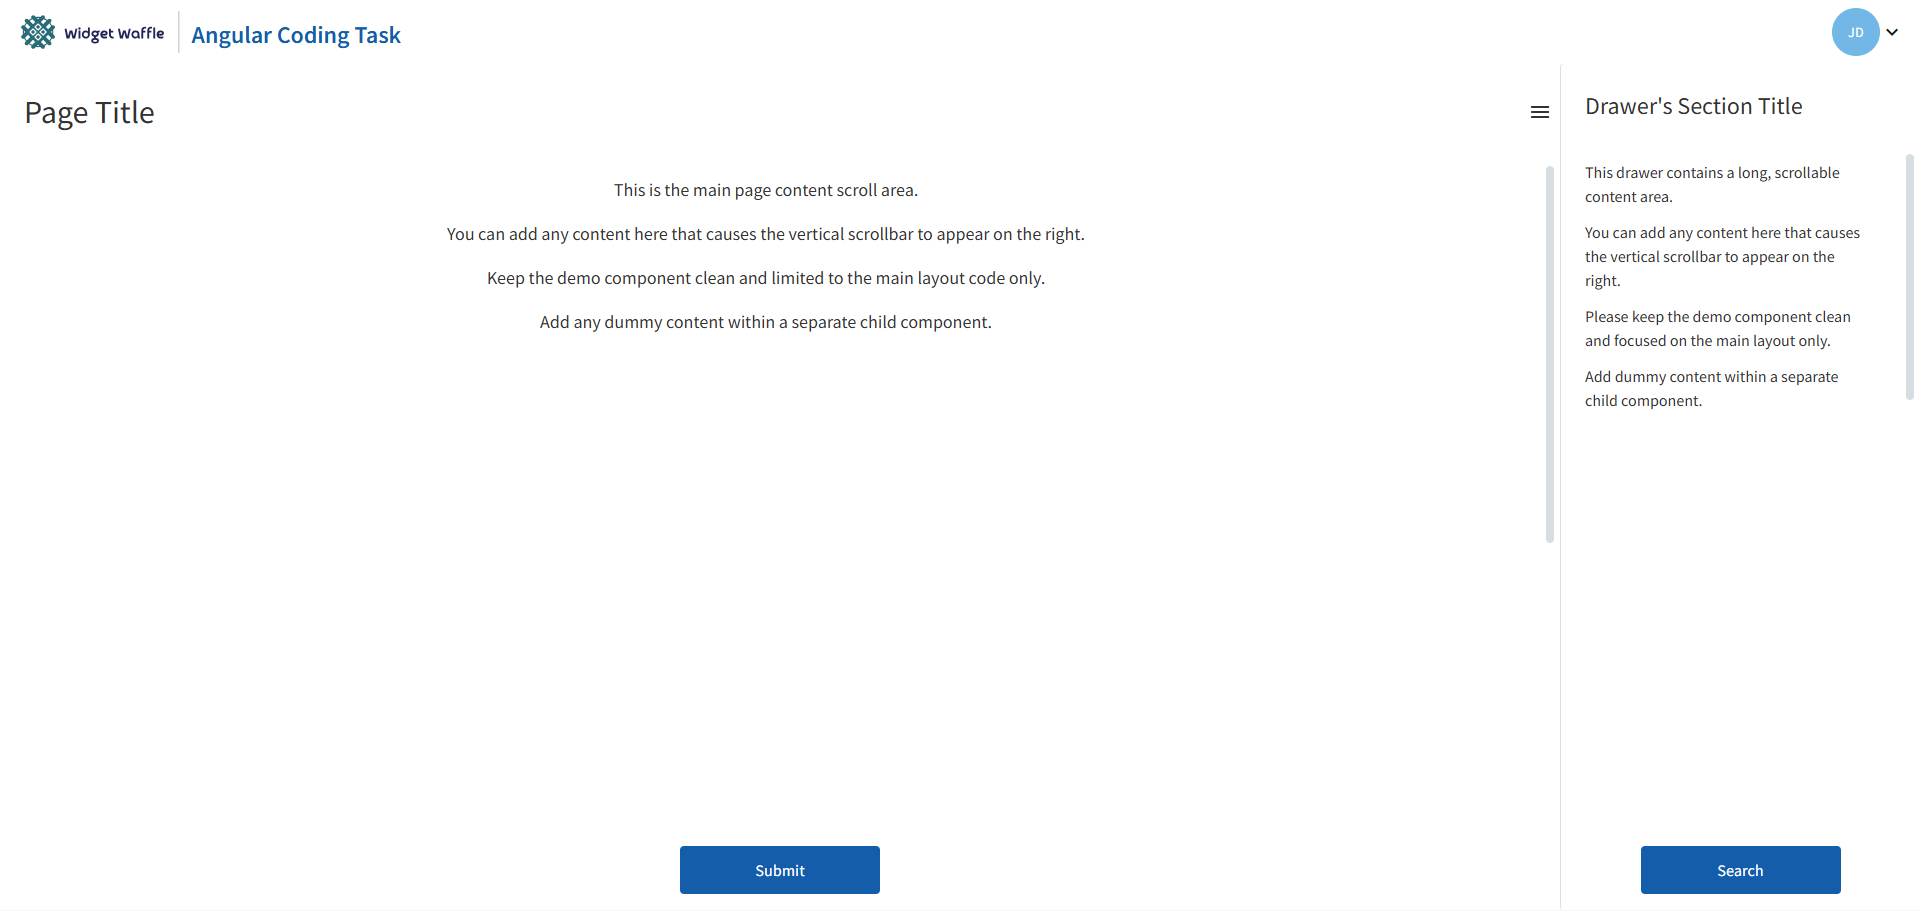
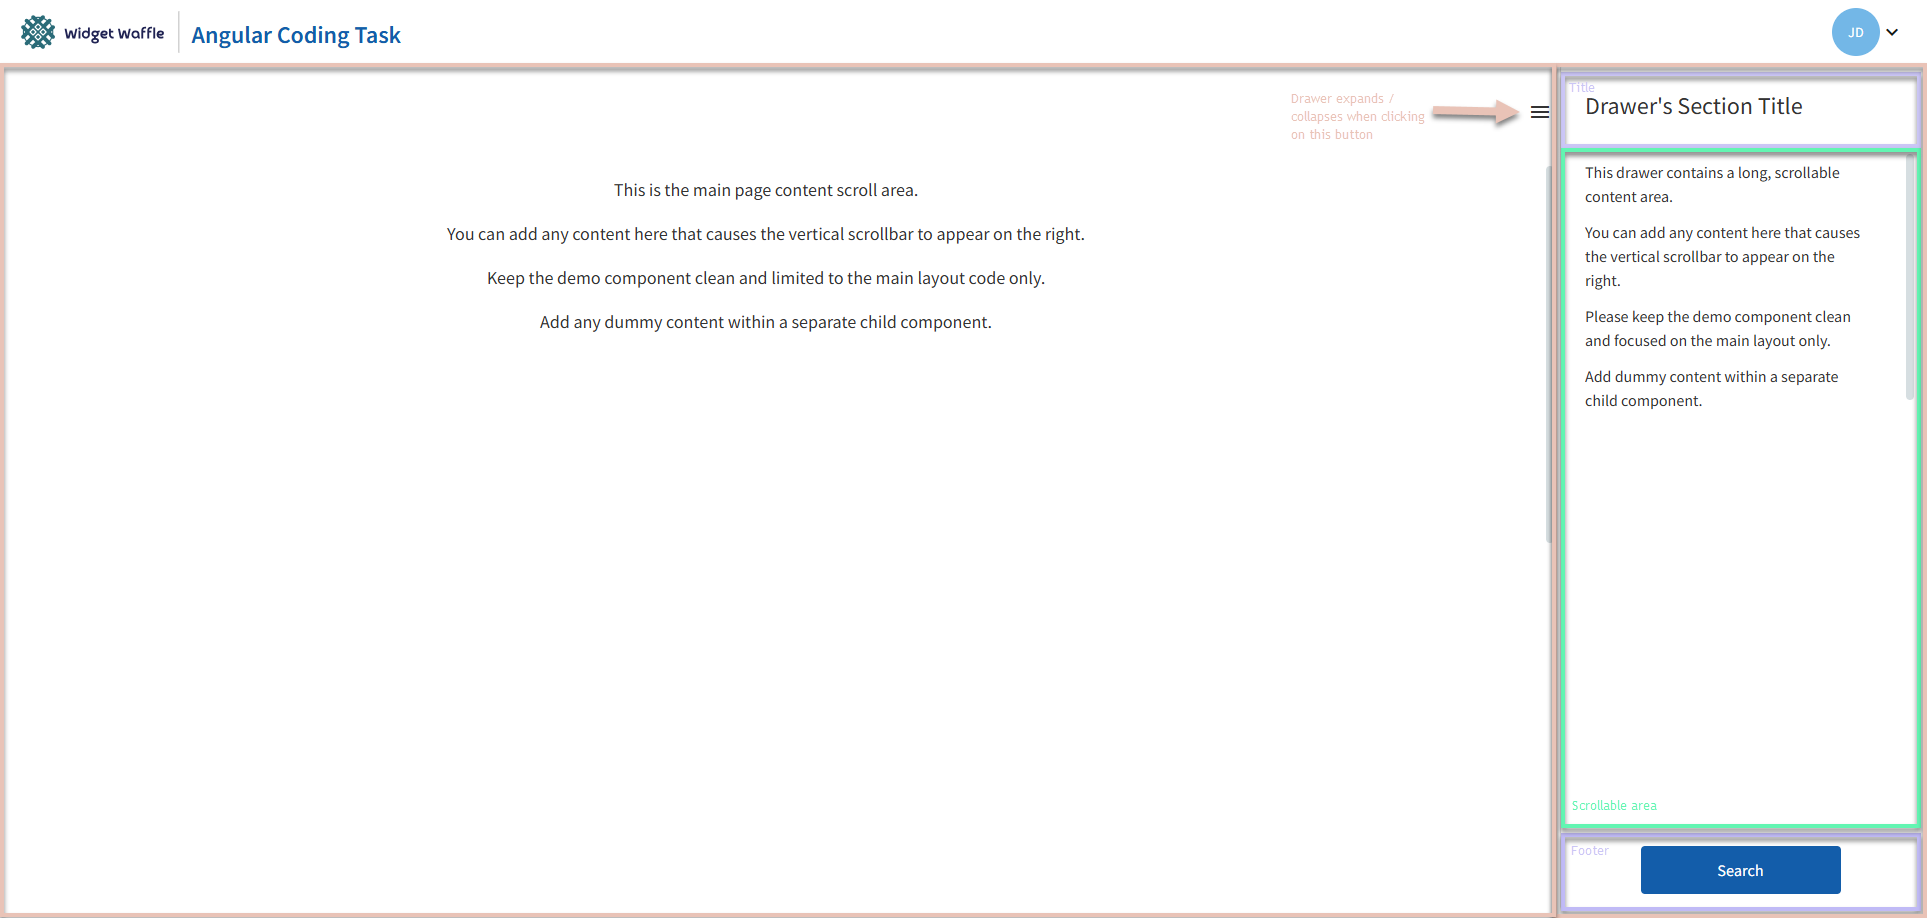
Update README and visual reference

Changed region(s): [[0.0, 0.0, 1.0, 1.0], [0.2188, 0.2459, 0.5625, 0.3688], [0.3125, 0.1844, 0.4688, 0.2151]]

diff --git a/README.md b/README.md
@@ -1,4 +1,4 @@
-# Angular Coding task
+# Angular Coding Test
 
 ## Table of Contents
 
@@ -48,38 +48,46 @@ Your implementation must include the following components:
 
 ### 1. Main Content Area (Left Section)
 
-- **Page Title**: Display "Page Title" as the heading
 - **Content**: Populate with sufficient text content to demonstrate scrolling
-- (See Optional Bonus below for dynamic content via API)
+- (See Requirement 3 below for dynamic content via API)
 - **CRITICAL REQUIREMENT**: This section **MUST be scrollable**
   - The content should exceed the viewport height
   - Only this section should scroll, not the entire page
-  - The header and footer should remain fixed while scrolling this area
 - **Layout**: Takes up the majority of the horizontal space (approximately 60-70% width)
 
 ### 2. Drawer/Sidebar Section (Right Section)
 
+#### Section Title Area
+
 - **Section Title**: "Drawer's Section Title"
+- Fixed at the top while content scrolls
+
+#### Content Area
+
 - **Content**: Contains informational text or instructions
 - **CRITICAL REQUIREMENT**: This section **MUST be scrollable**
   - The content should exceed the viewport height
   - Only this section should scroll, not the entire drawer
   - The section title and footer should remain fixed while scrolling this area
-- **Layout**: Fixed width sidebar on the right (approximately 30-40% width)
-- **Behavior**: Should remain visible and not scroll with the main content
-- **CRITICAL REQUIREMENT**: Drawer **MUST be collapsible** (expandable/hideable) with toggle functionality
 
-### 3. Footer
+#### Sidebar Footer Area
 
-- **Main Content Area Button**: One action button (Submit) aligned to the right
-  - **Submit**: Primary/filled button style
 - **Sidebar Button**: One action button (Search) aligned to the center
   - **Search**: Primary/filled button style
 - Fixed at the bottom of their respective sections
 
+#### General Layout Requirements
 
-## Optional Bonus: Dynamic Content via Public API
-💡 This is optional but strongly encouraged to demonstrate real-world frontend skills.
+- **Library**: Use Angular Material MatSidenavModule
+- **Layout**: Fixed width sidebar on the right (approximately 30-40% width)
+- **Behavior**: Should remain visible and not scroll with the main content
+- **CRITICAL REQUIREMENT**: Drawer **MUST be collapsible** (expandable/hideable) with toggle functionality
+
+> **💡 Hint**: Assume the app contains multiple pages (routes). Not every page requires a drawer, and different pages panel may require different content.
+
+> **📝 Note**: Colorful border lines in the visual reference image are indicators only; do not show borders in actual UI.
+
+### 3. Dynamic Content via Public API
 
 Replace the static placeholder text in the Main Content Area with live data from a public API:
 
@@ -112,7 +120,6 @@ Replace the static placeholder text in the Main Content Area with live data from
 
    - Implement proper overflow handling for the main content area
    - The main content section must scroll independently
-   - Header and footer remain fixed in viewport
 
 3. **Styling**
 
@@ -127,9 +134,18 @@ Replace the static placeholder text in the Main Content Area with live data from
 
 - Working implementation that matches the reference layout
 - Properly structured Angular components
+- Use **_MatSidenavModule_**
 - Responsive design that works on different screen sizes
 - Support minimum desktop width: 1280 × 720 px
 - Demonstration of the scrollable main content area
+
+## Submission Instructions
+
+1. Clone the original repository
+2. Create a new private repository under your own GitHub account **_(not a fork)_**
+3. Push your changes to this private repository
+4. Add wendycst as a collaborator
+5. Share the repository link with us
 
 ## Reference
 
